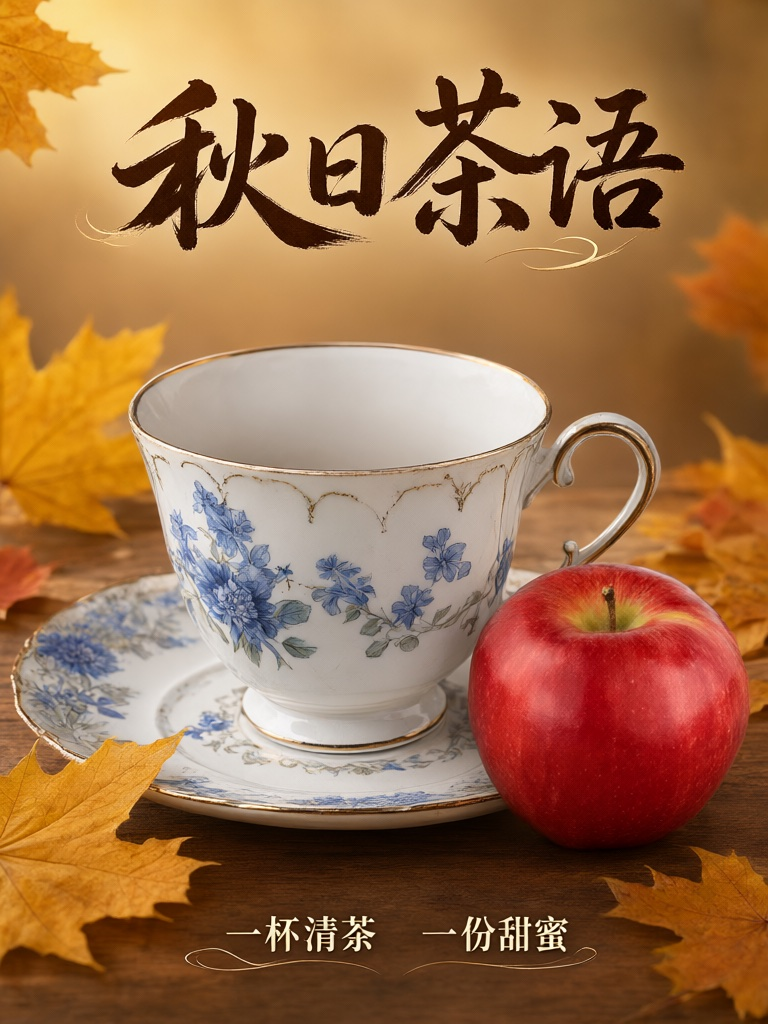
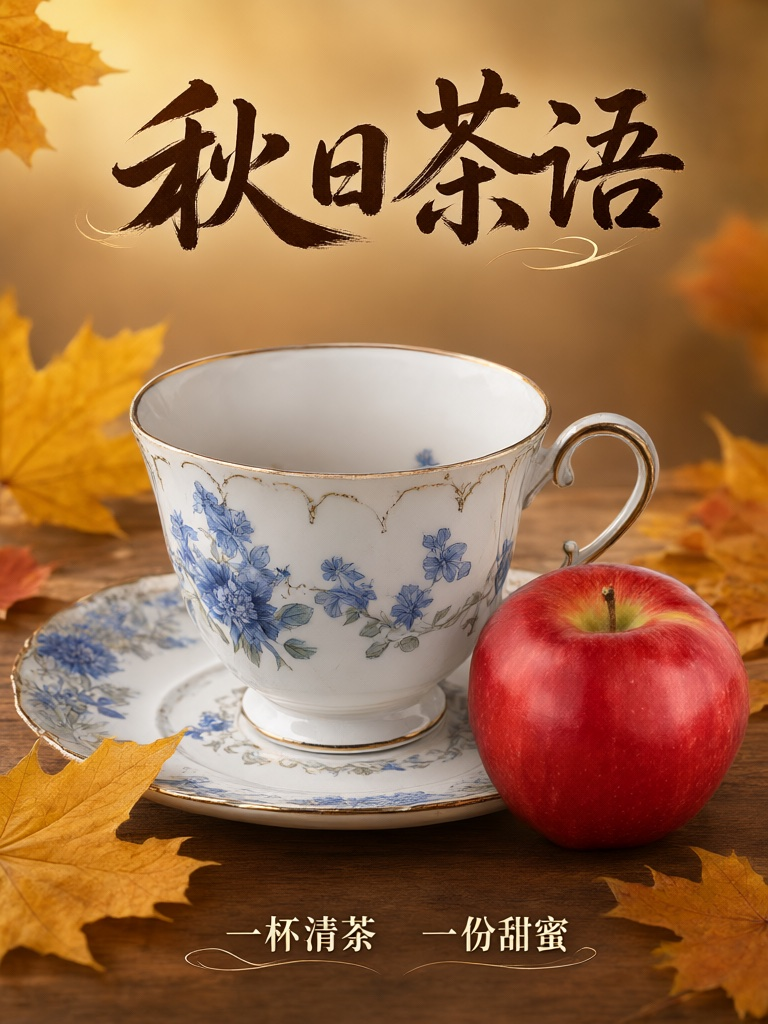
perf: fused softmax in attention (~2x faster denoising), opt-in --tf32
An nsys profile showed candle_nn::ops::softmax (five full passes over the
score matrix) plus scaling the scores taking ~65% of GPU kernel time. Use
the fused softmax_last_dim kernel and scale q instead; bit-for-bit the same
golden-tensor error (1.7e-6).

1024^2 edit with one reference, 20 steps: Q4_K_M 101 -> 49 s, full F32
136 -> 84 s, full BF16 106 -> 57 s. Text-to-image: full 89.9 -> 63.2 s,
Q8_0/Q4_K_M 58 -> 30 s. Two-reference poster 108 -> 61 s.

--tf32 enables TF32 for F32 cuBLAS matmuls: full F32 84 -> 60 s at 2e-4
mean relative error vs. golden (BF16 is 8.6e-3). No effect on GGUF layers.

diff --git a/src/transformer.rs b/src/transformer.rs
@@ -191,12 +191,14 @@ const ATTENTION_CHUNK_ROWS: usize = 1024;
 /// tensor, true where attending is allowed.
 pub(crate) fn chunked_attention(q: &Tensor, k: &Tensor, v: &Tensor, scale: f64, mask: Option<&Tensor>) -> Result<Tensor> {
     let sq = q.dim(2)?;
+    // Scale q (head_dim wide) rather than the scores (key-length wide).
+    let q = q.affine(scale, 0.0)?;
     let kt = k.transpose(2, 3)?.contiguous()?;
     let mut outs = Vec::with_capacity(sq.div_ceil(ATTENTION_CHUNK_ROWS));
     for start in (0..sq).step_by(ATTENTION_CHUNK_ROWS) {
         let len = ATTENTION_CHUNK_ROWS.min(sq - start);
         let q_chunk = q.narrow(2, start, len)?.contiguous()?;
-        let mut w = q_chunk.matmul(&kt)?.affine(scale, 0.0)?;
+        let mut w = q_chunk.matmul(&kt)?;
         if let Some(mask) = mask {
             let m = if mask.dim(2)? == 1 { mask.clone() } else { mask.narrow(2, start, len)? };
             // Additive mask: 0 where allowed, -inf where masked.
@@ -205,7 +207,9 @@ pub(crate) fn chunked_attention(q: &Tensor, k: &Tensor, v: &Tensor, scale: f64, 
             w = w.broadcast_add(&m.where_cond(&zero, &neg_inf)?)?;
         }
         // Softmax in F32 even for BF16/F16 weights; exp/sum lose too much otherwise.
-        let w = candle_nn::ops::softmax(&w.to_dtype(DType::F32)?, D::Minus1)?.to_dtype(v.dtype())?;
+        // The fused last-dim kernel: the generic `softmax` runs five full passes
+        // over the scores and took over half the denoising time.
+        let w = candle_nn::ops::softmax_last_dim(&w.to_dtype(DType::F32)?)?.to_dtype(v.dtype())?;
         outs.push(w.matmul(v)?);
     }
     Tensor::cat(&outs, 2)

diff --git a/src/main.rs b/src/main.rs
@@ -76,6 +76,13 @@ struct Args {
     #[arg(long)]
     text_encoder_cpu: bool,
 
+    /// Allow TF32 tensor cores for F32 matrix multiplications on CUDA (as
+    /// PyTorch's `allow_tf32`): faster, ~1e-3 relative error per matmul. Only
+    /// F32 matmuls are affected — GGUF linear layers use candle's quantized
+    /// kernels, BF16 matmuls already use tensor cores.
+    #[arg(long)]
+    tf32: bool,
+
     /// Run benchmark mode (multiple iterations)
     #[arg(long)]
     benchmark: bool,
@@ -254,6 +261,7 @@ fn main() -> Result<()> {
         d => d,
     };
     let dtype = args.precision.as_dtype();
+    candle_core::cuda::set_gemm_reduced_precision_f32(args.tf32);
 
     eprintln!("Device: {:?}", device);
     eprintln!("Prompt: {}", args.prompt);

diff --git a/src/bin/i2i_probe.rs b/src/bin/i2i_probe.rs
@@ -74,6 +74,8 @@ fn main() -> Result<()> {
         Ok("f16") => DType::F16,
         _ => DType::F32,
     };
+    // I2I_TF32=1 allows TF32 for F32 matmuls (the CLI's --tf32).
+    candle_core::cuda::set_gemm_reduced_precision_f32(std::env::var("I2I_TF32").as_deref() == Ok("1"));
 
     match stage {
         "vae" => {

diff --git a/README.md b/README.md
@@ -88,7 +88,7 @@ With classifier-free guidance (roughly doubles the denoising time):
 
 ### Multi-reference example
 
-Two 1024×1024 references combined into a 768×1024 poster with Chinese calligraphy lettering (Q4_K_M + `--precision bf16`, 20 steps, 108 s denoising, 20.1 GiB peak GPU memory):
+Two 1024×1024 references combined into a 768×1024 poster with Chinese calligraphy lettering (Q4_K_M + `--precision bf16`, 20 steps, 61 s denoising, 19.2 GiB peak GPU memory):
 
 | Reference 1 | Reference 2 | Result |
 |---|---|---|
@@ -125,6 +125,7 @@ The teacup keeps reference 1's blue floral pattern, gold rim, and saucer; the ap
 | `--no-kv-cache` | off | Recompute the text prefix every step (for A/B checks). |
 | `--precision` | `f32` | `bf16` halves the memory of the full-precision transformer and of the GPU text encoder (see [Memory](#memory)). GGUF transformers and the VAE always compute in F32. `f16` is untested. |
 | `--text-encoder-cpu` | off | Run the text encoder and vision tower on the CPU in F32: frees their GPU memory but adds ~75 s of prompt encoding. |
+| `--tf32` | off | Allow TF32 tensor cores for F32 matmuls on CUDA: full-precision F32 denoising 84 → 60 s at ~2e-4 relative error (BF16 is ~9e-3). No effect on GGUF linear layers or BF16. |
 | `--benchmark`, `--benchmark-iterations` | off, `3` | Keeps transformer + VAE loaded and times repeated runs. |
 | `--seed` | random | Printed at startup; pass it again to reproduce a run. Noise is drawn on the host, so a seed gives the same noise on every device. |
 | `--quantized` | | **Currently ignored**; the backend is chosen by the `--model-path` extension. |
@@ -135,15 +136,16 @@ NVIDIA L20 (46 GB), 1024×1024, 20 steps, denoising time only:
 
 | Transformer | Size on disk | KV cache on | KV cache off |
 |---|---|---|---|
-| Full precision (F32 compute) | 14 GB (BF16) | 89.9 s | 99.2 s |
-| Q8_0 GGUF | 7.6 GB | 58.0 s | 67.1 s |
-| Q4_K_M GGUF | 4.2 GB | 58.3 s | 67.3 s |
+| Full precision (F32 compute) | 14 GB (BF16) | 63.2 s | 70.0 s |
+| Q8_0 GGUF | 7.6 GB | 29.8 s | 38.1 s |
+| Q4_K_M GGUF | 4.2 GB | 30.0 s | 38.2 s |
 
-- Q4_K_M and Q8_0 run at the same speed: candle's CUDA quantized matmul appears to dequantize for sequences this long, so fewer bits mainly save disk and memory.
+- Q4_K_M and Q8_0 run at the same speed: both go through candle's MMQ kernels (activations quantized to q8_1, integer dot products), whose cost here is dominated by other work, so fewer bits mainly save disk and memory.
 - The KV-cache gain comes mostly from dropping the per-layer block-causal attention mask on cached steps, not from skipping the ~15 text tokens.
+- Attention uses candle's fused last-dim softmax. The generic `softmax` (five full passes over the score matrix) took over half of all GPU kernel time in an `nsys` profile; switching roughly halved denoising time for the quantized paths.
 - Accuracy vs. full precision (one forward pass, cosine similarity): Q8_0 0.99986, Q4_K_M 0.99537. Neither shows a visible quality difference.
 
-Image-conditioned generation at 1024×1024 (one 1024² condition image, 20 steps) roughly doubles the sequence to ~8,200 tokens: full precision 135 s, Q4_K_M 102 s. With two 1024² references and a 768×1024 output (~11,400 tokens), Q4_K_M takes 108 s. Attention is computed in chunks of 1,024 query rows so the score matrix never has to fit at once.
+Image-conditioned generation at 1024×1024 (one 1024² condition image, 20 steps) roughly doubles the sequence to ~8,200 tokens: full precision 84 s (F32) / 60 s (`--tf32`) / 57 s (`--precision bf16`), Q4_K_M 49 s. With two 1024² references and a 768×1024 output (~11,400 tokens), Q4_K_M takes 61 s. Attention is computed in chunks of 1,024 query rows so the score matrix never has to fit at once.
 
 ### Memory
 
@@ -153,16 +155,16 @@ Peak GPU memory (sampled with `nvidia-smi` every 100 ms), 1024² image-condition
 
 | Transformer | Text encoder | Peak (GiB) | Text encoding | Denoising | Wall |
 |---|---|---|---|---|---|
-| Full, F32 (default) | GPU, F32 | 39.4 | 6 s | 136 s | 151 s |
-| Full, `--precision bf16` | GPU, BF16 | 24.0 | 5 s | 106 s | 119 s |
-| Full, `--precision bf16` | `--text-encoder-cpu` | 23.9 | 81 s | 106 s | 194 s |
-| Q4_K_M | GPU, F32 (default) | 35.0 | 6 s | 102 s | 115 s |
-| Q4_K_M, `--precision bf16` | GPU, BF16 | 18.8 | 5 s | 101 s | — |
-| Q4_K_M | `--text-encoder-cpu` | 14.9 | 79 s | 101 s | 186 s |
+| Full, F32 (default) | GPU, F32 | 36.5 | 6 s | 84 s | 98 s |
+| Full, `--precision bf16` | GPU, BF16 | 23.0 | 5 s | 57 s | 69 s |
+| Full, `--precision bf16` | `--text-encoder-cpu` | 23.0 | 77 s | 57 s | 140 s |
+| Q4_K_M | GPU, F32 (default) | 35.0 | 6 s | 49 s | 62 s |
+| Q4_K_M, `--precision bf16` | GPU, BF16 | 18.8 | 5 s | 49 s | 60 s |
+| Q4_K_M | `--text-encoder-cpu` | 13.0 | 78 s | 49 s | 133 s |
 
 - With a GGUF transformer, `--precision bf16` only changes the text encoder. **Q4_K_M + `--precision bf16`** is the practical low-memory setting: under 19 GiB at full speed.
 - The peak is whichever phase is largest: the text encoder (~34 GB F32 / ~17 GB BF16 of weights) or the transformer phase (weights, activations, and the prefix KV cache, which grows with the number of condition images).
-- The prefix KV cache is always stored in BF16 (cast back to the compute dtype when attended to): for the two-reference poster above it is ~4.4 GB instead of ~8.7 GB, lowering that run's peak from 26.2 to 20.1 GiB. Cached vs. uncached step (`kv_cache_probe`, 512²): cosine 0.999997 for full precision, 0.9997 for Q4_K_M; the poster rendered with the same seed differs from the F32-cache version by a mean 1.4/255, with no visible difference.
+- The prefix KV cache is always stored in BF16 (cast back to the compute dtype when attended to): for the two-reference poster above it is ~4.4 GB instead of ~8.7 GB, lowering that run's peak from 26.2 to 20.1 GiB (19.2 GiB after the fused softmax, now bounded by the text-encoder phase). Cached vs. uncached step (`kv_cache_probe`, 512²): cosine 0.999997 for full precision, 0.9997 for Q4_K_M; the poster rendered with the same seed differs from the F32-cache version by a mean 1.4/255, with no visible difference.
 - BF16 accuracy vs. the F32 golden tensors (cosine): transformer 0.99996, text encoder 0.995, vision tower 0.996. The latents stay F32 across denoising steps and attention softmax runs in F32. In the runs above the output images differ from the F32 run by a mean 0.3 (BF16) and 1.3–1.4 (Q4_K_M) on a 0–255 scale, with no visible difference.
 
 ## Project layout
@@ -209,7 +211,7 @@ cargo test    # unit tests (RoPE vs. reference formula, dup_up3d, scheduler, att
 - Condition images are resized with the `image` crate's Lanczos3, close to but not bit-identical with upstream's PIL resize.
 - `--precision bf16` has been verified (see [Memory](#memory)); `f16` is untested.
 - End-to-end quality has been verified on CUDA only. The CPU path was checked at the single-forward level (quantized on CPU matches full precision); Metal has not been re-verified since the correctness fixes.
-- No flash attention: attention scores are materialised in full.
+- No flash attention: attention scores are materialised one 1,024-row chunk at a time.
 
 ## License
 

diff --git a/CLAUDE.md b/CLAUDE.md
@@ -58,7 +58,7 @@ There is no lint config beyond rustc warnings (`cargo check` surfaces them); the
 - `gguf_mapped.rs` — `MappedVarBuilder` wraps `quantized_var_builder::VarBuilder` and applies `gguf_mapping`'s name map when resolving tensors, falling back to the raw name if unmapped.
 - `gguf_loader.rs` — standalone dequantize-GGUF-to-safetensors utility (used by `test_gguf.rs`), independent of the `MappedVarBuilder` quantized-load path used by `main.rs --quantized`.
 - `rope.rs` — 3-axis (frame/height/width) RoPE (`EmbedNd`), matching diffusers' `QwenImage21Rope`: text tokens advance position on all three axes; each image block freezes the frame axis and lays out a height/width grid centered on zero. Supports `Precomputed` (default) or `Complex` frequency modes.
-- `attention_mask.rs` — block-causal attention mask: a query may attend to any key at or before it (causal) OR any key in the same image block (`same_image_block AND image_id >= 0`), so text is causal and each image block is internally bidirectional. The per-token `image_ids` come from `JointLayout`. The checkpoint has `causal_condition: true`: text and condition-image tokens get a modulation row computed at t=0 and only target tokens the real timestep's row, so `TransformerBlock` receives a per-token `[B, seq, 4*hidden]` modulation (both transformers implement this). Attention itself goes through `transformer::chunked_attention` (1,024 query rows at a time), because image-conditioned sequences reach ~8k tokens at 1024², where one full F32 score matrix is ~8.6 GB.
+- `attention_mask.rs` — block-causal attention mask: a query may attend to any key at or before it (causal) OR any key in the same image block (`same_image_block AND image_id >= 0`), so text is causal and each image block is internally bidirectional. The per-token `image_ids` come from `JointLayout`. The checkpoint has `causal_condition: true`: text and condition-image tokens get a modulation row computed at t=0 and only target tokens the real timestep's row, so `TransformerBlock` receives a per-token `[B, seq, 4*hidden]` modulation (both transformers implement this). Attention itself goes through `transformer::chunked_attention` (1,024 query rows at a time), because image-conditioned sequences reach ~8k tokens at 1024², where one full F32 score matrix is ~8.6 GB. It scales q (not the scores) and must use the fused `candle_nn::ops::softmax_last_dim`: the generic `softmax` runs five full passes over the scores and was >50% of all GPU kernel time in an `nsys` profile (`nsys profile -t cuda` + `nsys stats --report cuda_gpu_kern_sum` is the quickest way to see where denoising time goes). `--tf32` enables TF32 for F32 cuBLAS matmuls (`candle_core::cuda::set_gemm_reduced_precision_f32`); GGUF linear layers use candle's MMQ kernels and are unaffected.
 - `scheduler.rs` — `FlowMatchEuler` (the checkpoint's dynamic exponential sigma shift + `shift_terminal` stretch, starting from `linspace(1, 1/N, N)` as the Qwen pipelines do; Euler step) and sinusoidal `timestep_embedding` (`[cos, sin]` order, i.e. `flip_sin_to_cos=True`).
 - `vae.rs` — `VaeDecoder` and `VaeEncoder` implementing the real `AutoencoderKLQwenImage21` (64-channel latents, 16× spatial compression, RGBA in/out, real `latents_mean`/`latents_std`). It's a causal-3D VAE (Wan-style) in diffusers, but for single-frame images `QwenImage21CausalConv3d` collapses to a plain `Conv2d`, so both halves are pure 2D; the temporal `time_conv` layers only run from a second frame on and are unused. Two single-frame subtleties are replicated exactly: the decoder's `dup_up3d()` depth-to-space shortcut (its `factor_t` still changes the channel mapping on channel-reducing blocks) and the encoder's `avg_down3d()` shortcut, whose `factor_t=2` blocks average in a front-padded zero frame. The encoder is official-diffusers-layout only and returns the normalized posterior mean (upstream `sample_mode="argmax"`). Stride-1 3×3 convs go through `conv2d_banded`, which convolves row bands (with k−1 halo rows) under a 1 GiB im2col budget — candle's conv2d materialises a `C_in·k·k·H·W` im2col buffer, ~11 GB for the largest decoder layer at 1024². Plus `pack_latents`/`unpack_latents`/`normalize_latents`.
 - `text_encoder.rs` — `TextEncoder::load` auto-detects the directory layout. **Official** (a `config.json` with `text_config`, e.g. the official repo's `text_encoder/` with its tokenizer in the sibling `processor/`): the Qwen3-VL language model (`qwen3_vl_text.rs`) plus its vision tower (`qwen3_vl_vision.rs`). `encode` wraps the prompt in the upstream raw template (`<|im_start|>system\nComprehend and analyze the provided prompt.<|im_end|>\n<|im_start|>user\n{prompt}<|im_end|>\n<|im_start|>assistant\n`), takes the last decoder layer's output **before** the final RMSNorm, and drops the system-prefix tokens — all three are required to match what `txt_in` was trained on. `encode_with_images` uses the image-conditioned template (`<image1><|vision_start|>` + one `<|image_pad|>` per merged 32×32-px vision patch + `<|vision_end|>` before the prompt) and also returns which returned tokens are image slots. **Stand-in** (a plain dense Qwen3 checkpoint, e.g. Qwen3-0.6B): text-only, hidden states tiled up to 4096 — prompt-dependent but semantically wrong.
